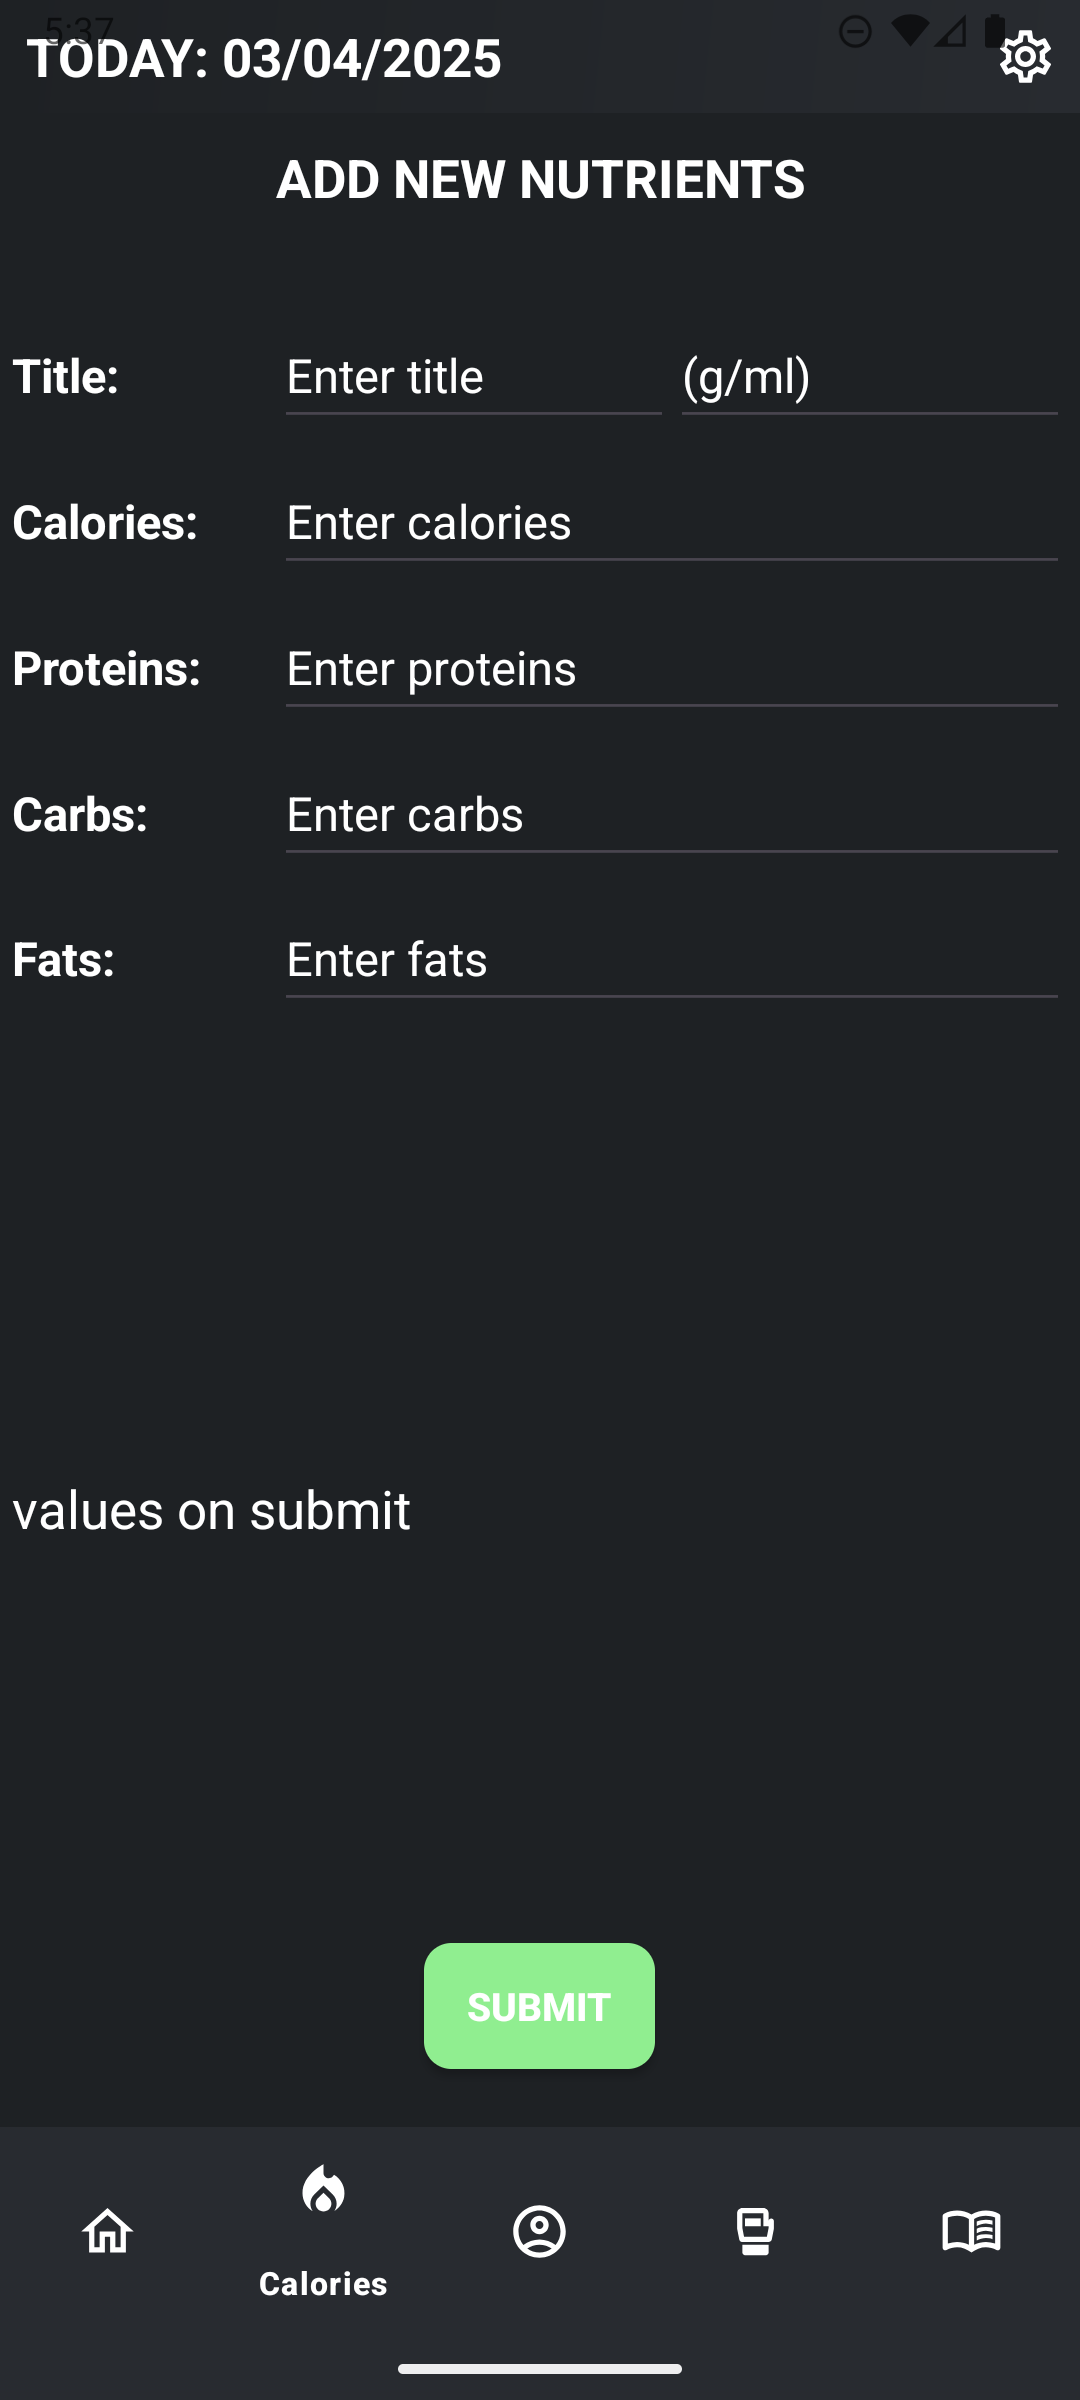
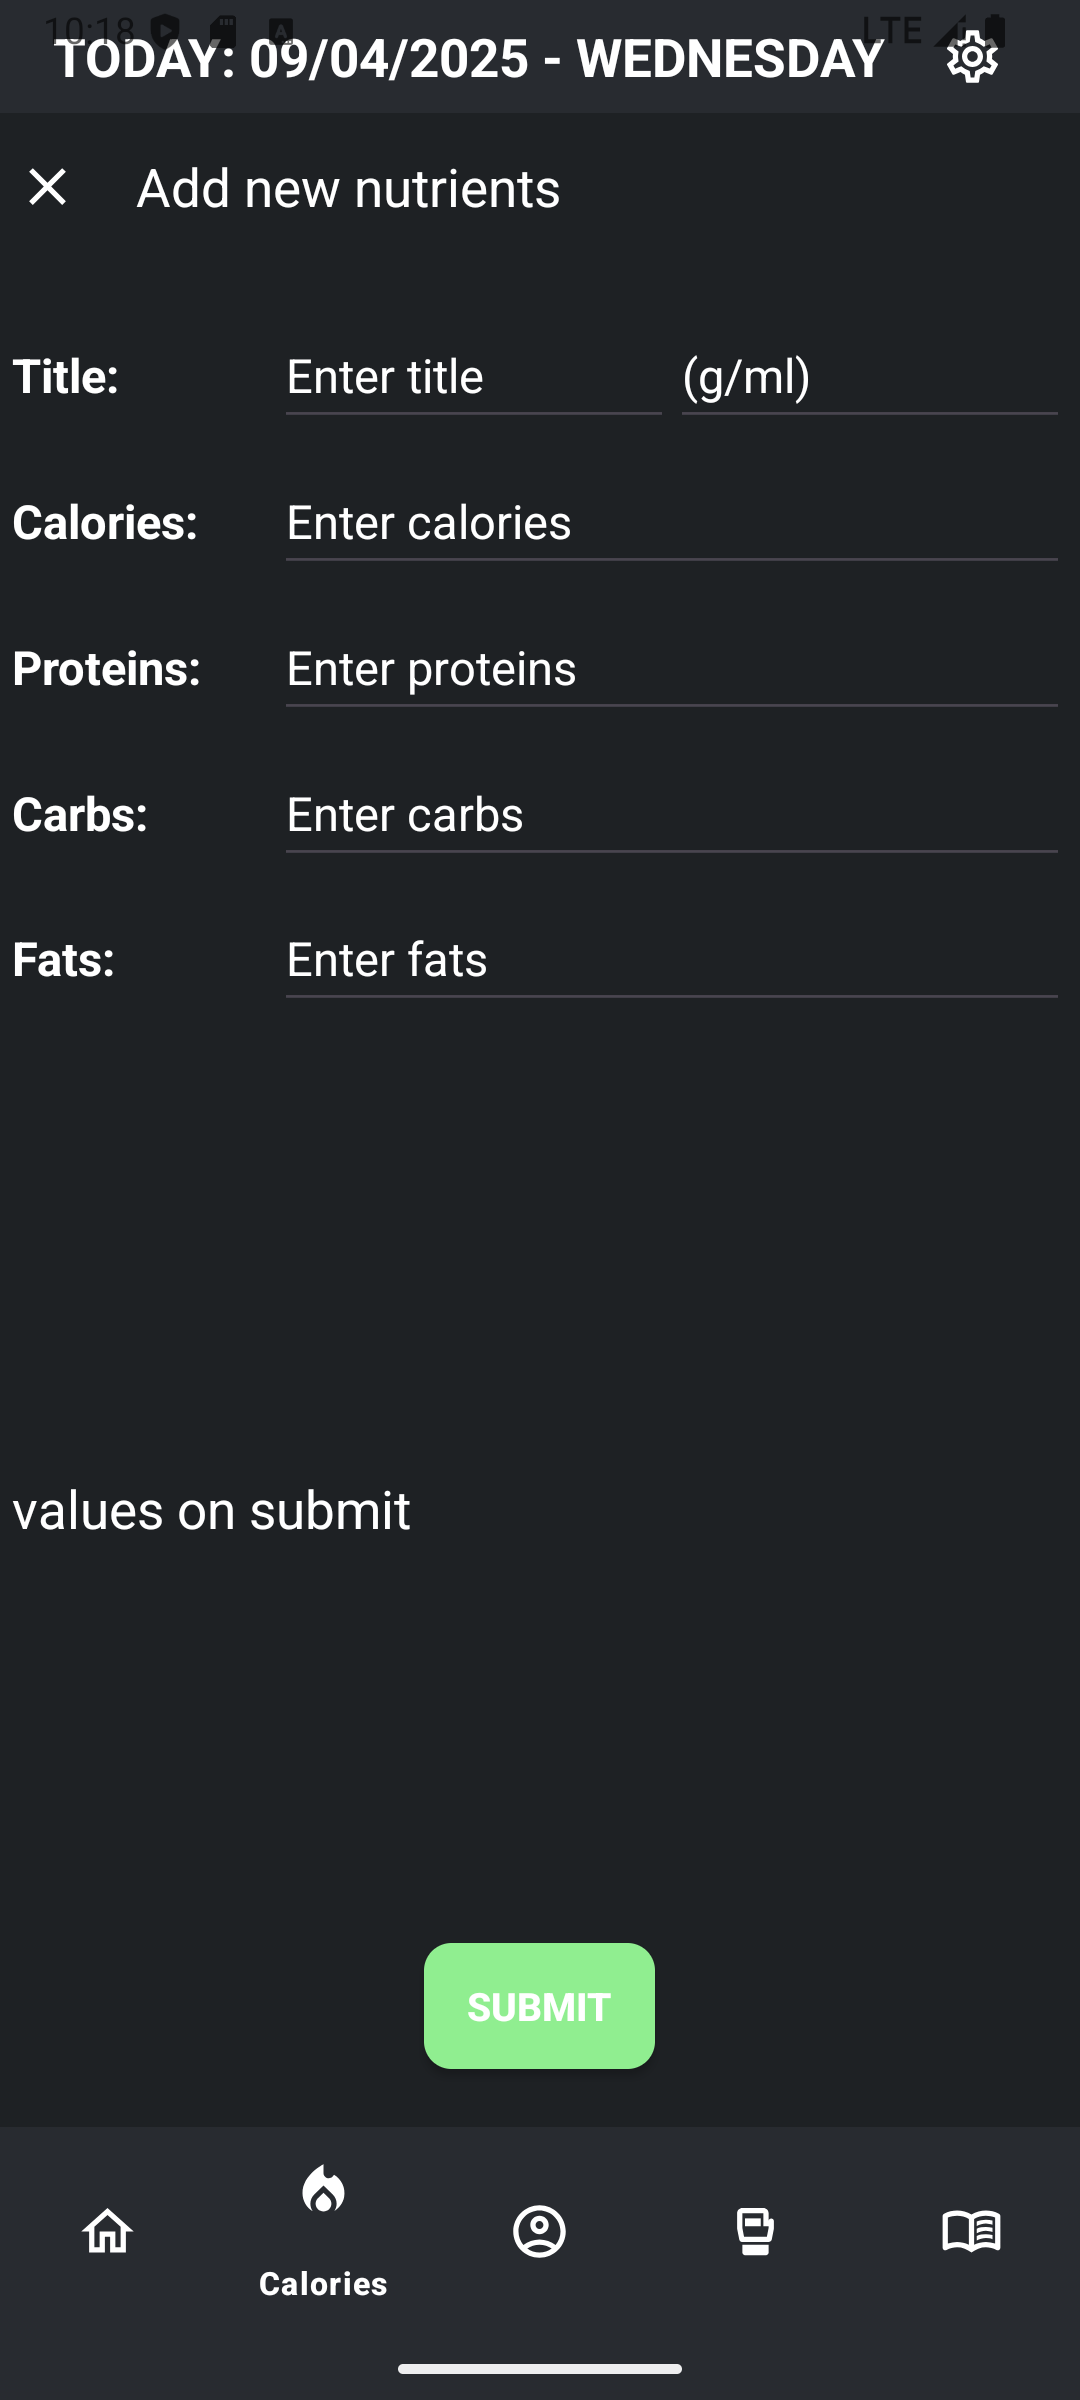
Added close btn on Add/Update Food

diff --git a/app/src/main/java/com/example/myapplication/fragments/FoodAddFragment.kt b/app/src/main/java/com/example/myapplication/fragments/FoodAddFragment.kt
@@ -15,6 +15,7 @@ import androidx.lifecycle.ViewModelProvider
 import com.example.myapplication.R
 import com.example.myapplication.data.models.FoodData
 import com.example.myapplication.data.viewmodel.FoodViewModel
+import com.google.android.material.bottomnavigation.BottomNavigationView
 import java.text.SimpleDateFormat
 import java.util.Calendar
 
@@ -32,6 +33,8 @@ class FoodAddFragment : Fragment() {
     private lateinit var date: String
 
     private lateinit var submitBtn: Button
+
+    private lateinit var closeBtn: ImageButton
 
     private fun checkBlankFields(): Boolean {
 
@@ -83,6 +86,7 @@ class FoodAddFragment : Fragment() {
         foodViewModel = ViewModelProvider(this)[FoodViewModel::class.java]
 
         submitBtn = view.findViewById<Button>(R.id.submit)
+        closeBtn = view.findViewById<ImageButton>(R.id.btnCloseAddFood)
 
         title = view.findViewById<EditText>(R.id.addTitle)
         titleValue = view.findViewById<EditText>(R.id.addTitleValue)
@@ -127,6 +131,15 @@ class FoodAddFragment : Fragment() {
             } else {
                 Toast.makeText(context, "EMPTY FIELDS ARE NOT ALLOWED", Toast.LENGTH_SHORT).show()
             }
+        }
+
+        closeBtn.setOnClickListener {
+
+            requireActivity().findViewById<BottomNavigationView>(R.id.bottomNavigationView).selectedItemId = R.id.food
+
+            parentFragmentManager.beginTransaction()
+                .replace(R.id.mainFrameLayout, FoodFragment())
+                .commit()
         }
 
         // Set ADD Button to VISIBLE

diff --git a/app/src/main/java/com/example/myapplication/fragments/FoodUpdateFragment.kt b/app/src/main/java/com/example/myapplication/fragments/FoodUpdateFragment.kt
@@ -7,6 +7,7 @@ import android.view.View
 import android.view.ViewGroup
 import android.widget.Button
 import android.widget.EditText
+import android.widget.ImageButton
 import android.widget.Toast
 import androidx.appcompat.app.AppCompatActivity
 import androidx.lifecycle.ViewModelProvider
@@ -28,6 +29,8 @@ class FoodUpdateFragment(private var foodData: FoodData) : Fragment() {
     private lateinit var date: EditText
 
     private lateinit var updateBtn: Button
+
+    private lateinit var closeBtn: ImageButton
 
     private fun setFields() {
 
@@ -90,6 +93,7 @@ class FoodUpdateFragment(private var foodData: FoodData) : Fragment() {
         fats = view.findViewById(R.id.updateFoodFats)
         date = view.findViewById(R.id.updateFoodDate)
         updateBtn = view.findViewById(R.id.updateFoodBtn)
+        closeBtn = view.findViewById(R.id.btnCloseUpdateFood)
 
         setFields()
 
@@ -101,6 +105,15 @@ class FoodUpdateFragment(private var foodData: FoodData) : Fragment() {
             }
             else
                 Toast.makeText(context, "Empty Fields Not Allowed!", Toast.LENGTH_SHORT).show()
+        }
+
+        closeBtn.setOnClickListener {
+
+            requireActivity().findViewById<BottomNavigationView>(R.id.bottomNavigationView).selectedItemId = R.id.food
+
+            parentFragmentManager.beginTransaction()
+                .replace(R.id.mainFrameLayout, FoodFragment())
+                .commit()
         }
 
         return view

diff --git a/app/src/main/java/com/example/myapplication/adapter/FoodAdapter.kt b/app/src/main/java/com/example/myapplication/adapter/FoodAdapter.kt
@@ -36,6 +36,7 @@ class FoodAdapter (private var mealsList: ArrayList<FoodData>, private val foodV
         val carbs: TextView = mealView.findViewById(R.id.mealCarbsValue)
         val fats: TextView = mealView.findViewById(R.id.mealFatsValue)
         val deleteBtn: ImageButton = mealView.findViewById(R.id.deleteFood)
+        val seeDetails: TextView = mealView.findViewById(R.id.textSeeDetails)
     }
 
     override fun onCreateViewHolder(parent: ViewGroup, viewType: Int): MyViewHolder {
@@ -102,6 +103,11 @@ class FoodAdapter (private var mealsList: ArrayList<FoodData>, private val foodV
                 }
                 .show()
         }
+
+        holder.seeDetails.setOnClickListener {
+            Toast.makeText(holder.itemView.context, "Details for - " + mealsList[position].title, Toast.LENGTH_SHORT).show()
+        }
+
     }
 
     override fun getItemCount(): Int {
